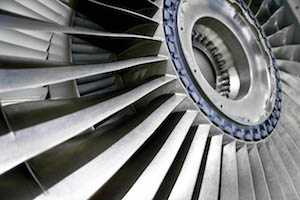
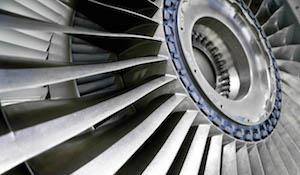
convert thumbnail to slot

diff --git a/demo/px-tile-demo.html b/demo/px-tile-demo.html
@@ -54,10 +54,12 @@
       <px-demo-component>
         <px-tile type="{{props.type.value}}"
                  hoverable="{{props.hoverable.value}}"
-                 image-url="{{props.imageUrl.value}}"
                  title="{{props.title.value}}"
                  description="{{props.description.value}}"
                  flip-action="{{props.flipAction.value}}">
+          <div class="thumbnail" slot="thumbnail">
+            <img src="../turbine.jpg"/ >
+          </div>
           <div class="footer" slot="footer">
             <px-icon icon="px-fea:tag"></px-icon>
             <px-alert-label type="unknown" label="Tag 1"></px-alert-label>
@@ -114,11 +116,6 @@
       description: {
         type: String,
         defaultValue: 'Lorem ipsum dolor sit amet, consectetur adipiscing elit. Etiam porta sem malesuada magna mollis euismod. Cras justo odio, dapibus ac facilisis in, egestas eget quam. Praesent commodo cursus magna, vel scelerisque nisl consectetur et. Cras justo odio, dapibus ac facilisis in, egestas eget quam. Maecenas sed diam eget risus varius blandit sit amet non magna.',
-        inputType: 'text'
-      },
-      imageUrl: {
-        type: String,
-        defaultValue: '../turbine.jpg',
         inputType: 'text'
       },
       hoverable: {

diff --git a/dist/px-tile.js b/dist/px-tile.js
@@ -5,8 +5,6 @@
        */hoverable:{type:Boolean,value:false},/**
        * Whether the tile is currently being hovered.
        */_hovered:{type:Boolean,value:false},/**
-       * Relative URL to an image file to use as a thumbnail on the tile.
-       */imageUrl:{type:String,value:'',observer:'_updateImage'},/**
        * Main text label for the tile.
        */title:{type:String,value:'Title'},/**
        * Additional information to be displayed in the overlay of a hoverable card.
@@ -14,9 +12,6 @@
        */description:{type:String,value:'Description'}},/**
      * Method used internally for flipping the hovered status of a tile.
      */_hover:function _hover(){if(this.hoverable){this._hovered=!this._hovered}},/**
-     * Changes the background of the thumbnail div when the imageUrl changes.
-     * @param {String} url
-     */_updateImage:function _updateImage(url){this.$.thumbnail.style.background='url('+url+') 0 0 no-repeat'},/**
      * Attach event listeners for hoverable tiles.
      */attached:function attached(){this.listen(this.$.overlay,'mouseenter','_hover');this.listen(this.$.overlay,'mouseleave','_hover')},/**
      * Detach event listeners for hoverable tiles.

diff --git a/px-tile.es6.js b/px-tile.es6.js
@@ -21,14 +21,6 @@
         value: false
       },
       /**
-       * Relative URL to an image file to use as a thumbnail on the tile.
-       */
-      imageUrl: {
-        type: String,
-        value: '',
-        observer: '_updateImage'
-      },
-      /**
        * Main text label for the tile.
        */
       title: {
@@ -51,13 +43,6 @@
       if(this.hoverable) {
         this._hovered = !this._hovered;
       }
-    },
-    /**
-     * Changes the background of the thumbnail div when the imageUrl changes.
-     * @param {String} url
-     */
-    _updateImage(url) {
-      this.$.thumbnail.style.background = `url(${url}) 0 0 no-repeat`;
     },
     /**
      * Attach event listeners for hoverable tiles.

diff --git a/px-tile.html b/px-tile.html
@@ -12,7 +12,8 @@
 ### Usage
 
     <px-tile title="title" description="description" hoverable>
-      <div slot="footer"></div>
+      <div slot="thumbnail"><img src="../turbine.jpg"/></div>
+      <div slot="footer">Footer Content Here</div>
     </px-tile>
 
 ### Styling
@@ -41,7 +42,9 @@ Custom property | Description | Default
 
     <div class="tile__container">
       <div id="tile" class="tile">
-        <div id="thumbnail" class="thumbnail"></div>
+        <div id="thumbnail" class="thumbnail">
+          <slot name="thumbnail"></slot>
+        </div>
         <div class="title epsilon">{{title}}</div>
       </div>
       <div id="overlay" class$="overlay {{_getClass(_hovered)}}">

diff --git a/HISTORY.md b/HISTORY.md
@@ -1,3 +1,7 @@
+v1.0.3
+==================
+* convert thumbnail to slot
+
 v1.0.2
 ==================
 * fix for shadow dom compatibility
